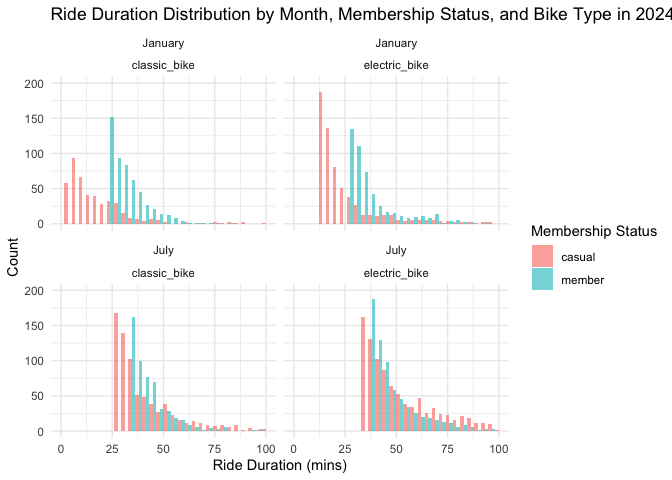
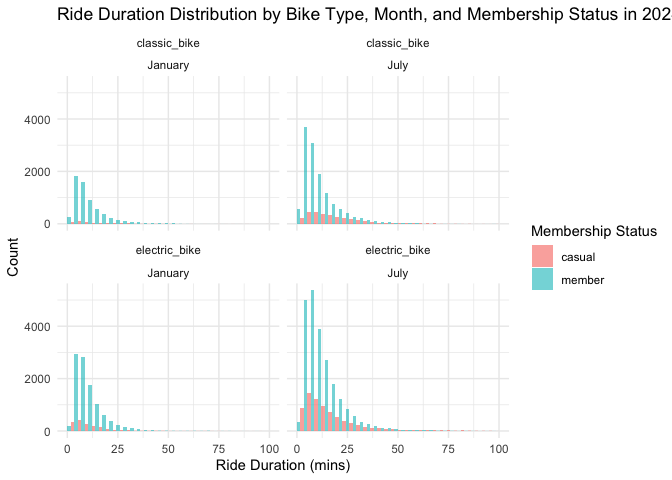
Q3. The impact of month, membership status, and bike type on the distribution of ride duration.

diff --git a/P8105.md b/P8105.md
@@ -573,13 +573,13 @@ distribution of ride duration**
 ``` r
 citi_bike_2024 <- citi_bike_data %>%
   filter(year == 2024)
-# Plot ride duration distribution by month, membership status, and bike type
+
+# Histogram of ride duration by bike type, filled by membership status, faceted by month
 ggplot(citi_bike_2024, aes(x = duration, fill = member_casual)) +
   geom_histogram(bins = 30, position = "dodge", alpha = 0.6) +
-  facet_wrap(~ month + rideable_type) +  # Separate plots by month and bike type
+  facet_wrap(rideable_type ~ month) +  
   scale_x_continuous(limits = c(0, 100)) +
-  scale_y_continuous(limits = c(0, 200)) +
-  labs(title = "Ride Duration Distribution by Month, Membership Status, and Bike Type in 2024",
+  labs(title = "Ride Duration Distribution by Bike Type, Month, and Membership Status in 2024",
        x = "Ride Duration (mins)", 
        y = "Count",
        fill = "Membership Status") +
@@ -589,7 +589,14 @@ ggplot(citi_bike_2024, aes(x = duration, fill = member_casual)) +
     ## Warning: Removed 198 rows containing non-finite outside the scale range
     ## (`stat_bin()`).
 
-    ## Warning: Removed 63 rows containing missing values or values outside the scale range
+    ## Warning: Removed 8 rows containing missing values or values outside the scale range
     ## (`geom_bar()`).
 
-![](P8105_files/figure-gfm/unnamed-chunk-15-1.png)<!-- -->
+![](P8105_files/figure-gfm/unnamed-chunk-15-1.png)<!-- --> As we can see
+from the figure, during the July, there are more people ride bike and
+especially most of member will choose classic bike for the duration less
+than 25 mins. The reason should be the weather is much better in July
+than in January. Also, during January, the casual people will more like
+to ride a electric bike. In general, most people ride for a duration of
+less than 50 minutes, but there are some exceptions. Whether it’s
+January or July, more people ride electric bikes.
